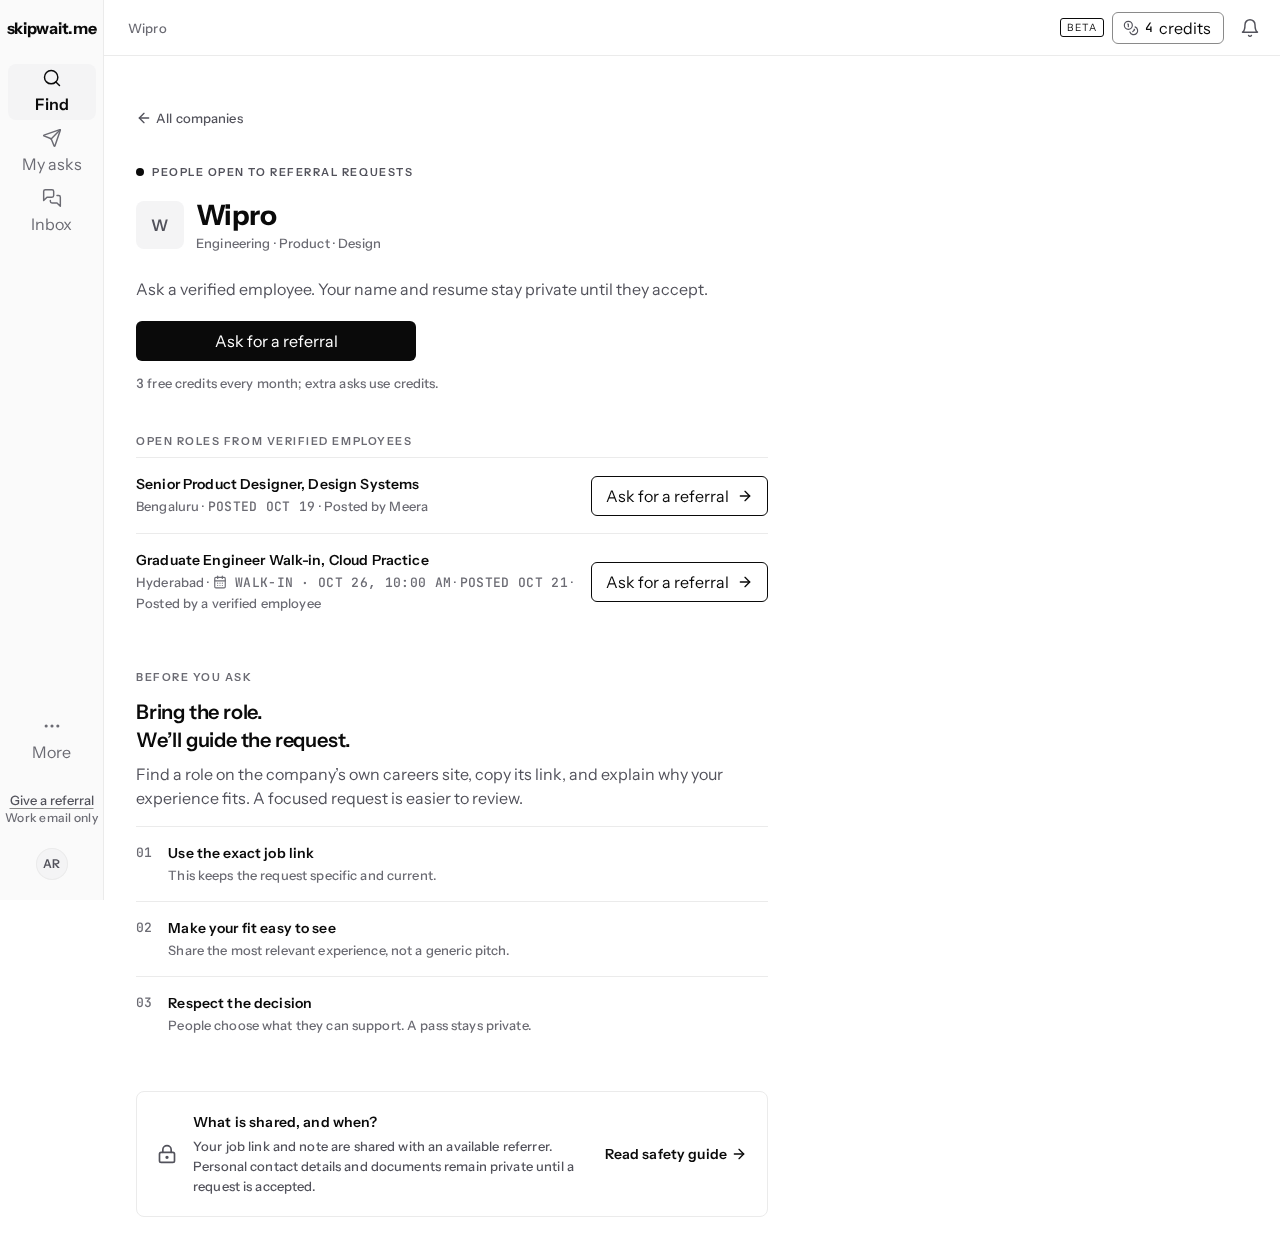
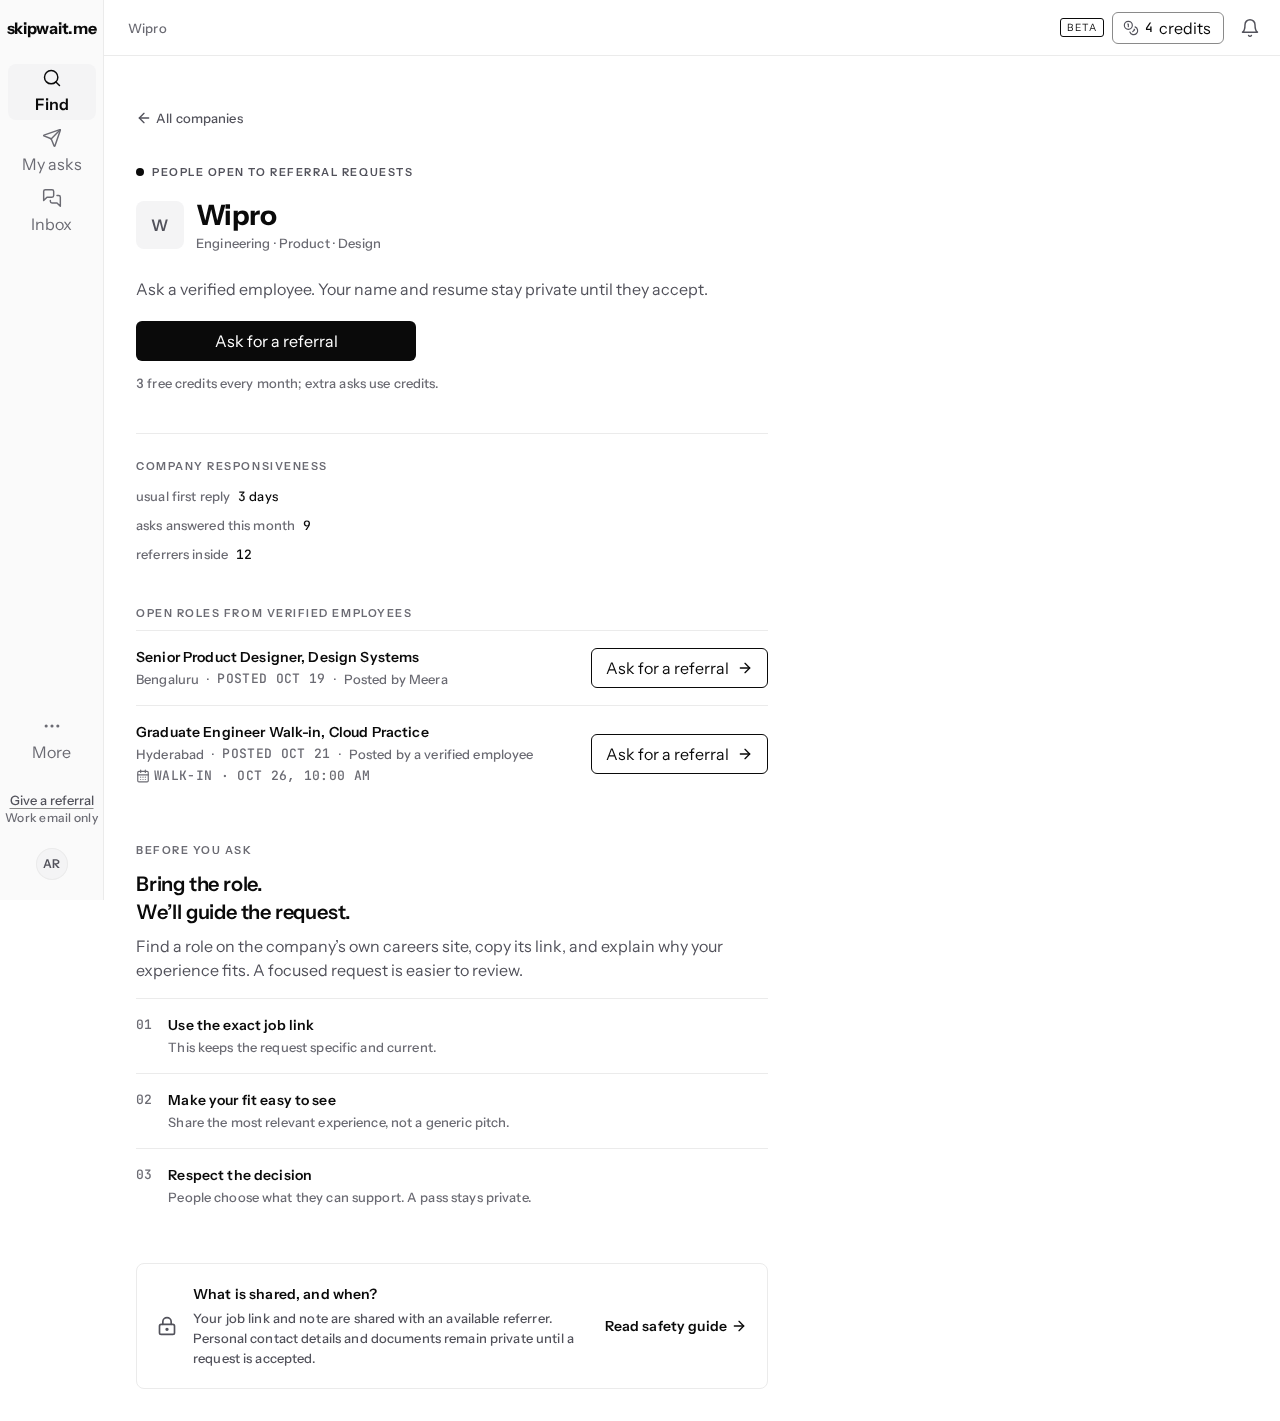
W2 company door: designer review fixes (#429)
- Company responsiveness restored between the cost line and open roles
  (shown metrics when the signal exists, the honest not-enough line when
  it does not, nothing while the flag is off); fixtures carry the signal.
- Load error: body no longer repeats the heading; Try again flush left.
- Walk-in date-time is its own mono line; meta wraps per segment and
  never ends on a separator.
- Captures retaken at 1280 and 390 with VITE_COMPANY_RESPONSE_SIGNAL=on.

diff --git a/client/src/pages/ExploreCompany.tsx b/client/src/pages/ExploreCompany.tsx
@@ -7,12 +7,11 @@
 // ghost "Ask anyway" and says the wait honestly. Every number from
 // /api/companies/:slug, /api/companies/:slug/opportunities and the live send.
 import { ArrowLeft, ArrowRight, CalendarDays, LockKeyhole } from "lucide-react";
-import { useEffect, useState, type ReactNode } from "react";
+import { Fragment, useEffect, useState, type ReactNode } from "react";
 import { Link, useRoute } from "wouter";
 import {
   GoalAppShell,
   GoalButton,
-  GoalErrorState,
   GoalNum,
   GoalSkeletonRows,
 } from "@/components/goal";
@@ -50,7 +49,11 @@ export default function ExploreCompany() {
       <GoalAppShell active="find" pageTitle="Find a referral">
         <div data-skipwait-screen="explore-company-error" className="max-w-[696px] px-8 pt-10 pb-8 max-gdesk:px-4 max-gdesk:pt-6">
           <BackLink />
-          <GoalErrorState className="mt-6 px-0" title="We couldn’t load this company." body={company.error.message} retry={{ label: "Try again", onClick: () => { void company.refetch(); } }} />
+          <div data-testid="goal-error-state" role="alert" className="mt-6">
+            <p className="text-g-label text-g-ink">We couldn’t load this company.</p>
+            <p className="mt-1 text-g-meta text-g-ink-2">Check your connection and try again.</p>
+            <GoalButton className="mt-3 -ml-3" size="sm" variant="ghost" onClick={() => { void company.refetch(); }}>Try again</GoalButton>
+          </div>
         </div>
       </GoalAppShell>
     );
@@ -262,6 +265,16 @@ function CompanyOpenings({ slug, companyName }: { slug: string; companyName: str
   );
 }
 
+// Each segment stays on one line; the wrap happens between segments, so a
+// line never ends on a separator. A walk-in's date-time is its own line.
+function metaSegments(post: PublicOpportunityPost, posted: string): ReactNode[] {
+  const segments: ReactNode[] = [];
+  if (post.location) segments.push(<span className="whitespace-nowrap">{post.location}</span>);
+  segments.push(<span className="whitespace-nowrap font-g-mono uppercase tracking-wide">Posted {posted}</span>);
+  segments.push(<span className="whitespace-nowrap">{post.poster.kind === "firstName" ? `Posted by ${post.poster.firstName}` : "Posted by a verified employee"}</span>);
+  return segments;
+}
+
 function OpenRoleRow({ post }: { post: PublicOpportunityPost }) {
   const posted = formatDay(post.postedAt);
   const walkIn = post.kind === "walk_in" && post.walkInAt ? formatDayTime(post.walkInAt) : null;
@@ -272,16 +285,14 @@ function OpenRoleRow({ post }: { post: PublicOpportunityPost }) {
     <li className="flex items-center gap-3 py-4 max-gdesk:flex-col max-gdesk:items-stretch">
       <div className="min-w-0 flex-1">
         <p className="text-g-label text-g-ink">{post.roleTitle}</p>
-        <p className="mt-0.5 text-g-meta text-g-ink-3">
-          {post.location ? <>{post.location} · </> : null}
-          {walkIn ? (
-            <span className="font-g-mono uppercase tracking-wide"><CalendarDays aria-hidden="true" className="mb-0.5 inline size-3.5" /> Walk-in · {walkIn}</span>
-          ) : null}
-          {walkIn ? " · " : null}
-          <span className="font-g-mono uppercase tracking-wide">Posted {posted}</span>
-          {" · "}
-          {post.poster.kind === "firstName" ? `Posted by ${post.poster.firstName}` : "Posted by a verified employee"}
+        <p className="mt-0.5 flex flex-wrap items-center gap-x-2 gap-y-0.5 text-g-meta text-g-ink-3">
+          {metaSegments(post, posted).map((segment, index) => (
+            <Fragment key={index}>{index > 0 ? <span aria-hidden="true">·</span> : null}{segment}</Fragment>
+          ))}
         </p>
+        {walkIn ? (
+          <p className="mt-0.5 flex items-center gap-1 font-g-mono uppercase tracking-wide text-g-meta text-g-ink-3"><CalendarDays aria-hidden="true" className="size-3.5" /> Walk-in · {walkIn}</p>
+        ) : null}
       </div>
       <GoalButton asChild variant="outline" className="shrink-0 max-gdesk:w-full">
         <Link href={askHref}>Ask for a referral <ArrowRight aria-hidden="true" className="size-4" /></Link>
